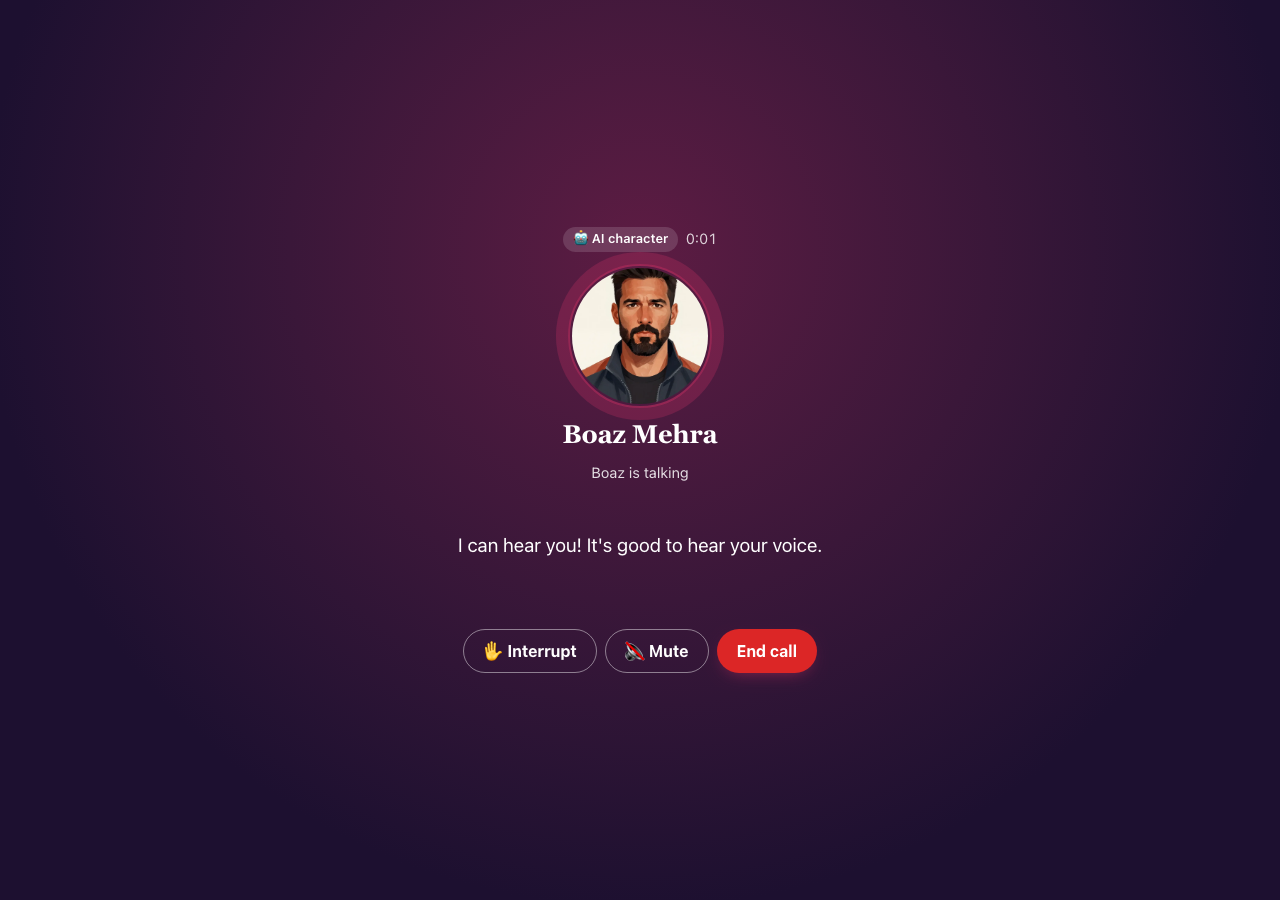
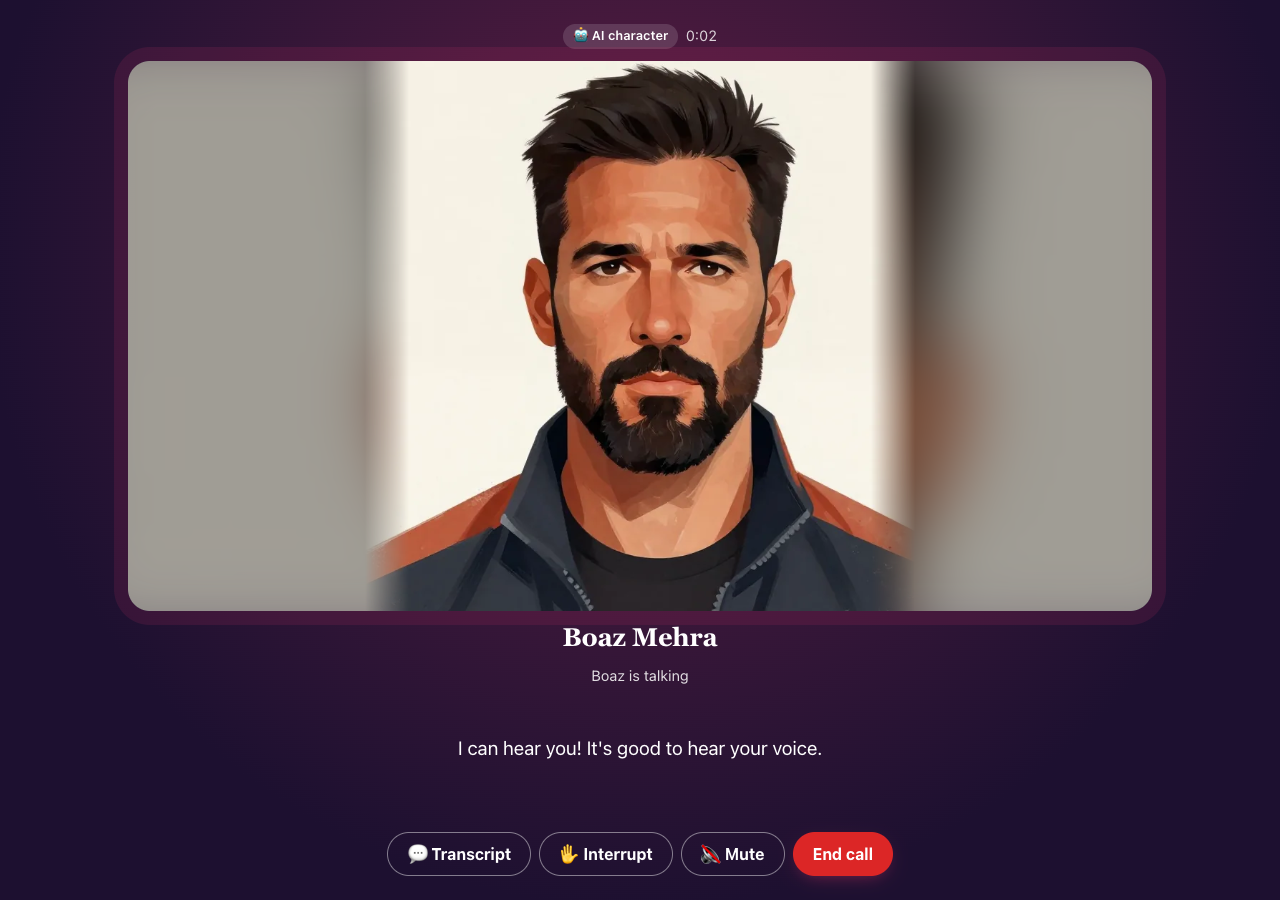
Companion call: the face grows into a tile 80% of the screen wide once the call starts
The 136 px circle was small on desktop. Once the call is on, the face becomes a rounded tile
80% of the screen wide (10% each side) and as tall as the room left by the words and buttons
(capped at 48rem). The face stays square at the tile's height (container query units) with a
blurred copy of the portrait filling the sides, since the kit stills are 512 px and stretching
them to the full width would blur them and cut the head off. Phones keep the usual gutter; the
transcript shrinks the tile instead of swapping to a 72 px circle. Ready screen unchanged.

diff --git a/app/companion/[id]/CompanionCall.tsx b/app/companion/[id]/CompanionCall.tsx
@@ -1,7 +1,8 @@
 "use client";
 
 import { useCallback, useEffect, useRef, useState } from "react";
-import Avatar from "@/app/Avatar";
+import Avatar, { sized } from "@/app/Avatar";
+import { characterPortrait } from "@/lib/portraits";
 import { useSpeech } from "@/app/stage/useSpeech";
 import { extraPrice, type CompanionCharacterRef, type CompanionExtraState, type CompanionMessageView } from "@/lib/companion-shared";
 import { heardSoFar, LIVE_START, liveStep, type Heard, type LiveEvent, type LiveState } from "@/lib/companion-live-shared";
@@ -30,6 +31,9 @@ export type CallTurn =
 export type CallStats = { seconds: number; turns: number; voice: CallVoice };
 
 type Phase = "ready" | "connecting" | "listening" | "thinking" | "speaking" | "paused";
+
+/** The most the face draws at on a call (the tile's height is capped in companion.css), for the portrait's size. */
+const BIG_FACE = 768;
 
 /** How the call goes: live (P6: Deepgram hears you as you talk, either of you can talk over the other) or taking turns (v1). */
 export type CallMode = "live" | "classic";
@@ -994,6 +998,12 @@ export default function CompanionCall({
 
   // Once the call is on: before it, there's nothing said to show.
   const scriptOpen = showScript && phase !== "ready";
+  // Once the call is on, their face grows from the small circle into a tile 80% of the screen wide (David 2026-11-14:
+  // "it's small on desktop"). The kit's stills are 512 px, so the face stays a square as tall as the tile and a blurred
+  // copy of their portrait fills the sides, instead of stretching it to the full width (blurry, with the head cut off).
+  const big = phase !== "ready";
+  const portrait = characterPortrait(character.id) ?? sized(character.portrait, BIG_FACE);
+  const backdrop = faceKit?.stills.portrait ?? portrait;
 
   const status =
     phase === "connecting"
@@ -1025,6 +1035,10 @@ export default function CompanionCall({
           {phase !== "ready" && <span className="companion-call-clock">{clock(seconds)}</span>}
         </p>
         <div className="companion-call-face">
+          {big && backdrop && (
+            // eslint-disable-next-line @next/next/no-img-element -- the face's own portrait, blurred behind it
+            <img src={backdrop} alt="" className="companion-call-backdrop" aria-hidden="true" draggable={false} />
+          )}
           <LiveFace
             ref={face}
             kit={faceKit}
@@ -1032,12 +1046,20 @@ export default function CompanionCall({
             level={faceLevel}
             said={them}
             name={first}
-            size={scriptOpen ? 72 : 136}
+            // On the call the tile is a size container (companion.css): a square as tall as the tile.
+            size={big ? "100cqh" : 136}
             session={faceSession}
             onLive={(on) => {
               if (on) faceWas.current = faceSession?.provider ?? "simli";
             }}
-            fallback={<Avatar seed={character.id} name={character.name} hue={character.hue} house={character.house} portraitSrc={character.portrait} size={scriptOpen ? 72 : 136} round />}
+            fallback={
+              big && portrait ? (
+                // eslint-disable-next-line @next/next/no-img-element -- their portrait at the tile's size (Avatar draws a fixed one)
+                <img src={portrait} alt="" className="companion-call-portrait" draggable={false} />
+              ) : (
+                <Avatar seed={character.id} name={character.name} hue={character.hue} house={character.house} portraitSrc={character.portrait} size={big ? 200 : 136} round />
+              )
+            }
           />
         </div>
         <h2 className="companion-call-name">{character.name}</h2>

diff --git a/app/ux/companion.css b/app/ux/companion.css
@@ -830,6 +830,89 @@ body:has(.companion-fullscreen) .site-footer {
     box-shadow: 0 0 0 5px var(--accent);
   }
 }
+/* Once the call is on (David 2026-11-14: "it's small on desktop"), the face grows into a tile 80% of the screen wide,
+   10% each side, as tall as the room the words and buttons leave. The face is a square as tall as the tile (100cqh,
+   from CompanionCall.tsx), its sides fading into a blurred copy of the portrait; where the tile is narrower than tall
+   (a phone), the square fills it and its sides are cut. */
+.companion-call:not(.is-ready) {
+  display: flex;
+  flex-direction: column;
+  align-items: center;
+}
+.companion-call:not(.is-ready) .companion-call-inner {
+  flex: 1 0 auto;
+  width: min(100%, 80vw);
+  justify-content: center;
+  animation: companion-call-grow 0.35s ease-out;
+}
+/* A phone keeps the usual gutter: 10% a side there is face lost. */
+@media (max-width: 720px) {
+  .companion-call:not(.is-ready) .companion-call-inner {
+    width: 100%;
+  }
+}
+.companion-call:not(.is-ready) .companion-call-face {
+  position: relative;
+  container-type: size;
+  display: flex;
+  align-items: center;
+  justify-content: center;
+  align-self: stretch;
+  flex: 1 1 0;
+  min-height: 9rem;
+  max-height: min(48rem, 104vw);
+  padding: 0;
+  overflow: hidden;
+  border-radius: var(--radius-lg);
+  background: color-mix(in srgb, var(--on-photo) 8%, transparent);
+}
+.companion-call.has-script .companion-call-face {
+  min-height: 4.5rem;
+}
+.companion-call-backdrop {
+  position: absolute;
+  inset: 0;
+  width: 100%;
+  height: 100%;
+  object-fit: cover;
+  object-position: center 20%;
+  filter: blur(32px) brightness(0.65);
+  transform: scale(1.15);
+}
+.companion-call:not(.is-ready) .companion-live-face {
+  border-radius: 0;
+  mask-image: linear-gradient(to right, transparent, black 8%, black 92%, transparent);
+}
+.companion-call:not(.is-ready) .companion-live-fallback {
+  display: flex;
+  align-items: center;
+  justify-content: center;
+  width: 100%;
+  height: 100%;
+}
+.companion-call-portrait {
+  display: block;
+  width: 100%;
+  height: 100%;
+  object-fit: cover;
+  object-position: center 20%;
+}
+/* Long lines read better than 80% of a wide screen across. */
+.companion-call:not(.is-ready) .companion-call-words,
+.companion-call:not(.is-ready) .companion-call-script {
+  max-width: 40rem;
+}
+@keyframes companion-call-grow {
+  from {
+    opacity: 0.5;
+    transform: scale(0.96);
+  }
+}
+@media (prefers-reduced-motion: reduce) {
+  .companion-call:not(.is-ready) .companion-call-inner {
+    animation: none;
+  }
+}
 /* Their face brought to life on a call (LiveFace.tsx, lib/face-kit.ts): the stills stacked and faded, the loop over them. */
 .companion-live-face {
   position: relative;

diff --git a/app/companion/[id]/LiveFace.tsx b/app/companion/[id]/LiveFace.tsx
@@ -55,7 +55,7 @@ type SimliModule = typeof import("simli-client");
  *  - MuseTalk: the server sends a clip per piece of the reply (the loop with the mouth saying it, voice included);
  *    they play here in order, and between them, and whenever a clip doesn't come, the kit's face carries on.
  */
-const LiveFace = forwardRef<LiveFaceHandle, { kit: FaceKit | null; phase: FacePhase; level: () => number; said: string | null; name: string; size: number; fallback: ReactNode; session?: LiveFaceSession | null; onLive?: (live: boolean) => void }>(
+const LiveFace = forwardRef<LiveFaceHandle, { kit: FaceKit | null; phase: FacePhase; level: () => number; said: string | null; name: string; size: number | string; fallback: ReactNode; session?: LiveFaceSession | null; onLive?: (live: boolean) => void }>(
   function LiveFace({ kit, phase, level, said, name, size, fallback, session = null, onLive }, ref) {
     const [mouth, setMouth] = useState<Mouth>("closed");
     const [blink, setBlink] = useState(false);
